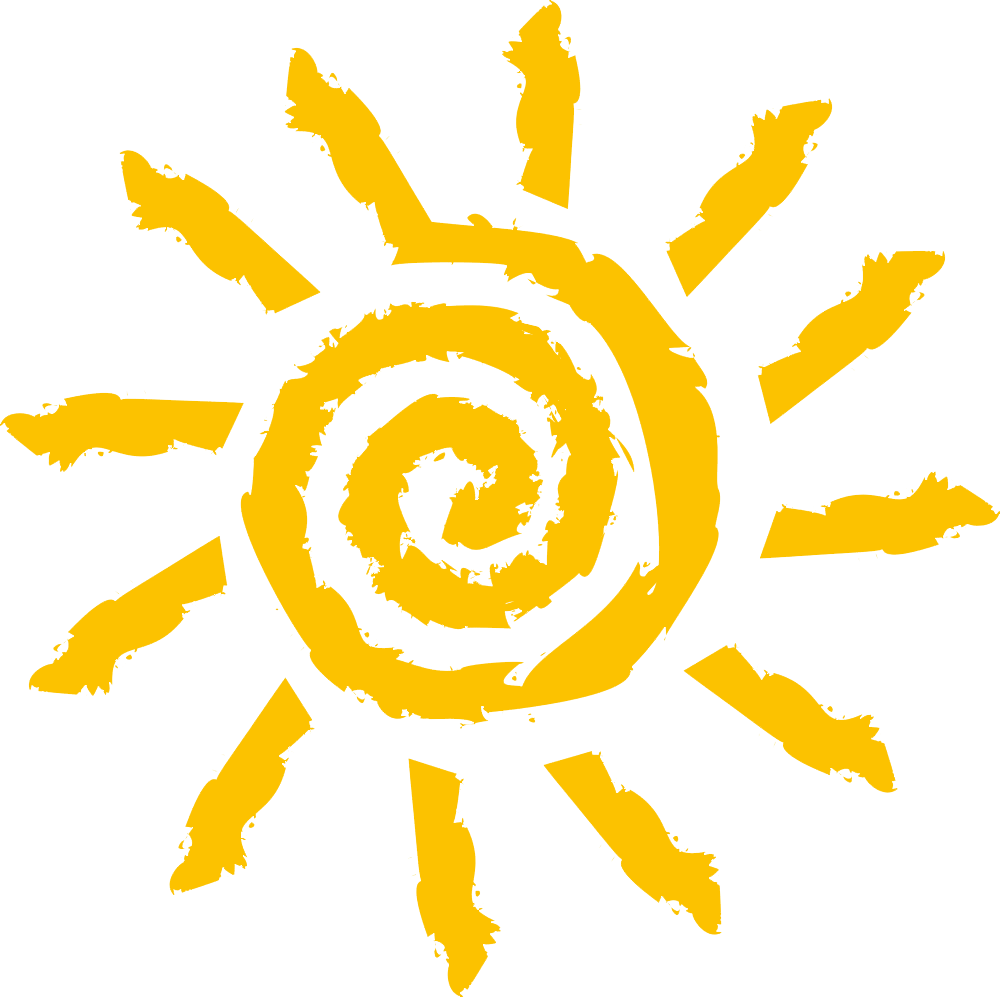
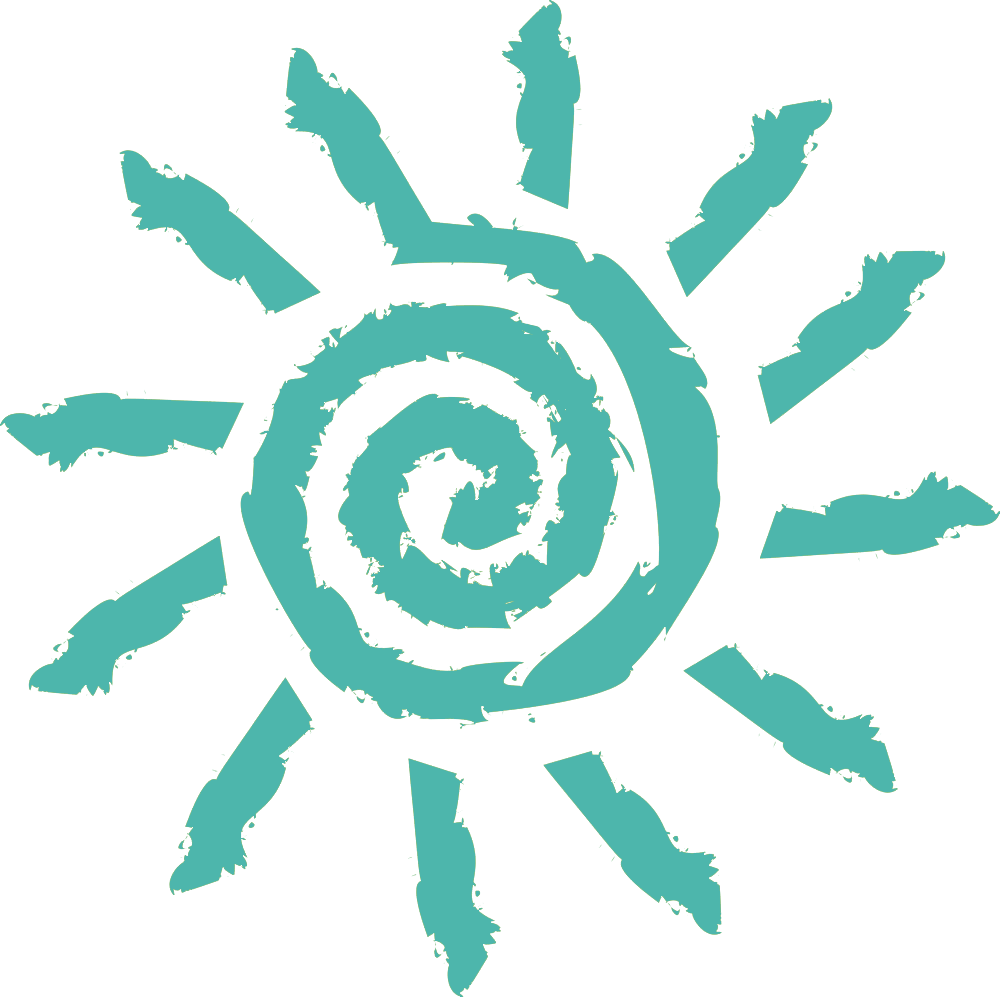
Sun element fixed (made responsive and changed color)

diff --git a/src/Bar/Bar.module.css b/src/Bar/Bar.module.css
@@ -19,11 +19,11 @@
 
 .Bar .Sun{
     position: absolute;
-    top: -12rem;
-    left: -12rem;
+    top: -20vw;
+    left: -18vw;
 }
 
 .Bar .Sun img{
-    width: 30rem;
-    height: 30rem;
+    width: 45vw;
+    height: auto;
 }
